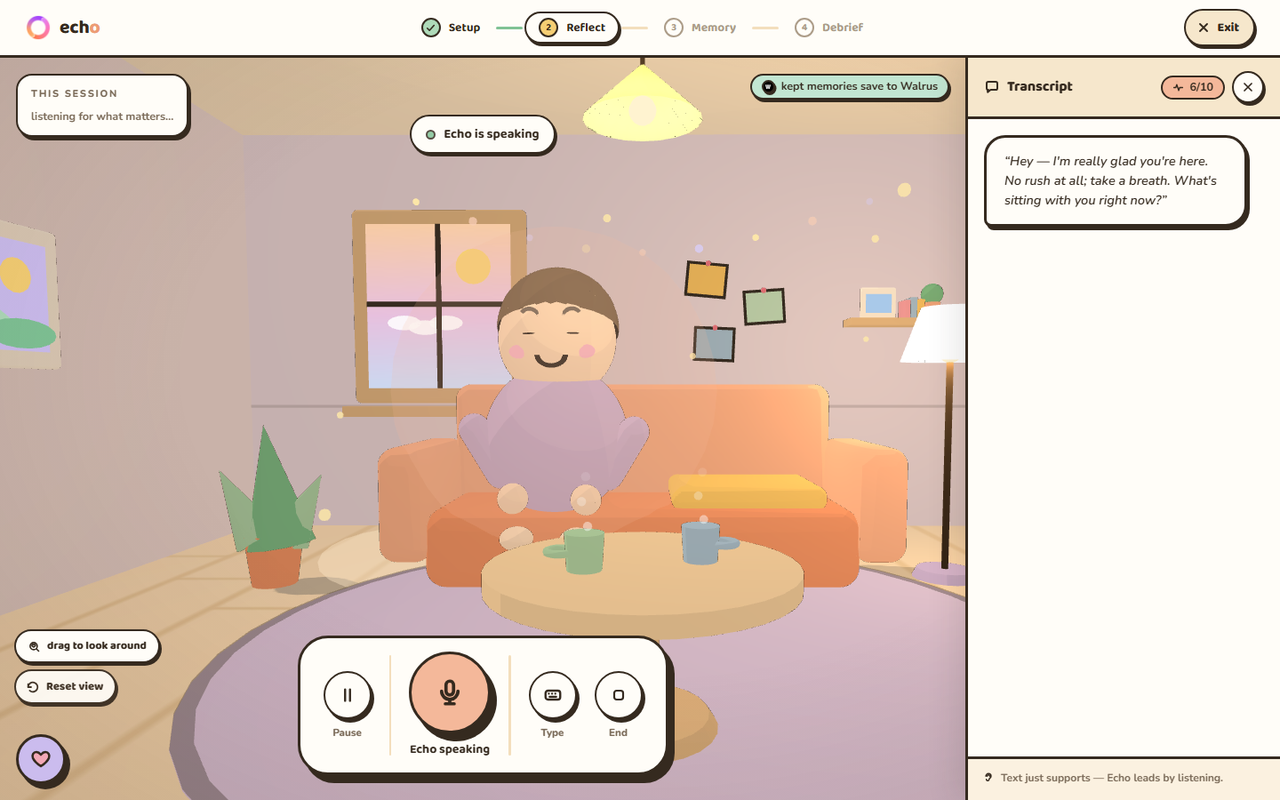
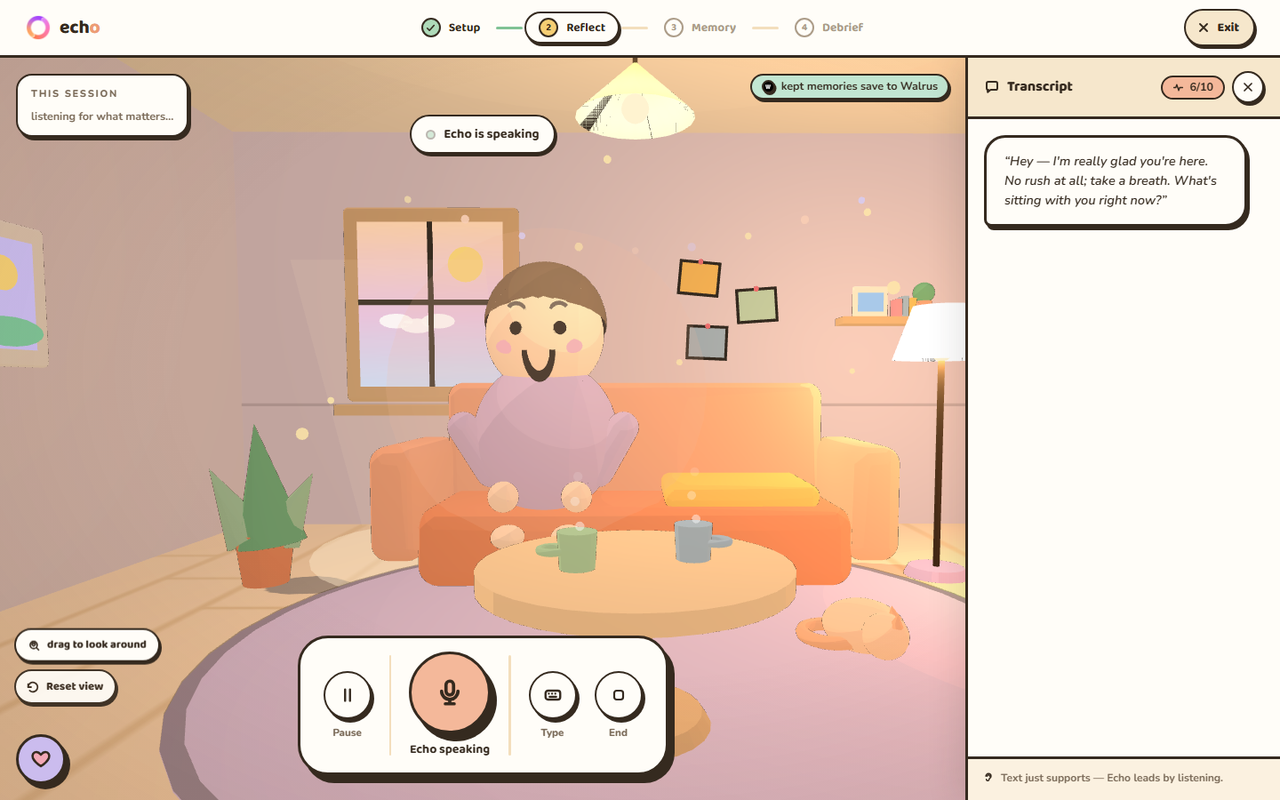
feat: room wow pass — entrance dolly, fireplace, cat, wave, dusk lighting
The reflection room now has a moment when you walk in: a cinematic entrance
(camera drifts down into your seat behind a soft cream fade) while the
companion waves hello. Lighting redesigned from flat to dusk-with-pools:
lower warm ambient, stronger lamp/pendant, a flickering fireplace on the
right wall (animated flames, hearth glow, mantel candle + plant), a window
light shaft, and a deeper background so the warm lights actually pool.
A sleeping doodle cat breathes on the rug. Landing hero gets the breathing
ring logo above the wordmark. Mobile: reset-view hidden (clamped drag
re-centers naturally); all states verified by screenshot.

diff --git a/components/reflection/ImmersiveRoom3D.tsx b/components/reflection/ImmersiveRoom3D.tsx
@@ -31,11 +31,14 @@ export interface Room3DApi { reset: () => void }
 function LookControls({ apiRef }: { apiRef: React.MutableRefObject<Room3DApi | null> }) {
   const { camera, gl } = useThree();
   const v = useRef({ yaw: 0, pitch: 0, tyaw: 0, tpitch: 0, drag: false, lx: 0, ly: 0, basePitch: 0 });
+  // cinematic entrance: drift down + forward into your seat
+  const intro = useRef({ t0: -1, done: false });
 
   useEffect(() => {
     camera.position.set(0, 1.22, 2.9);
     camera.lookAt(0, 1.0, -1.2);
     v.current.basePitch = camera.rotation.x;
+    if (window.matchMedia('(prefers-reduced-motion: reduce)').matches) intro.current.done = true;
     const el = gl.domElement;
     el.style.touchAction = 'none';
     const down = (e: PointerEvent) => {
@@ -78,6 +81,14 @@ function LookControls({ apiRef }: { apiRef: React.MutableRefObject<Room3DApi | n
     s.yaw = damp(s.yaw, s.tyaw, 7.5, dt);
     s.pitch = damp(s.pitch, s.tpitch, 7.5, dt);
     const t = st.clock.elapsedTime;
+    // entrance dolly — ease from above/behind down into the seat
+    if (!intro.current.done) {
+      if (intro.current.t0 < 0) intro.current.t0 = t;
+      const p = Math.min(1, (t - intro.current.t0) / 2.8);
+      const e = 1 - Math.pow(1 - p, 3); // easeOutCubic
+      camera.position.set(0, 1.22 + 0.5 * (1 - e), 2.9 + 1.9 * (1 - e));
+      if (p >= 1) intro.current.done = true;
+    }
     // gentle seated sway so the room feels alive even untouched
     const swayY = Math.sin(t * 0.32) * 0.012;
     const swayP = Math.cos(t * 0.26) * 0.007;
@@ -100,9 +111,18 @@ function Companion3D({ state }: { state: OrbState }) {
   const mouth = useRef<THREE.Mesh>(null);
   const think = useRef<THREE.Group>(null);
   const aura = useRef<THREE.Mesh>(null);
+  const waveArm = useRef<THREE.Group>(null);
+  const waveT0 = useRef(-1);
 
   useFrame((st, dt) => {
     const t = st.clock.elapsedTime;
+    // a little wave when you arrive — then the arm settles back down
+    if (waveArm.current) {
+      if (waveT0.current < 0) waveT0.current = t;
+      const wt = t - waveT0.current;
+      const target = wt > 0.6 && wt < 3.4 ? -1.85 + Math.sin(wt * 7) * 0.35 : 0;
+      waveArm.current.rotation.z = damp(waveArm.current.rotation.z, target, wt < 3.4 ? 7 : 3.5, dt);
+    }
     // breathing — whole figure, from the seat up
     if (breath.current) {
       const s = 1 + Math.sin(t * 1.35) * 0.016;
@@ -169,11 +189,14 @@ function Companion3D({ state }: { state: OrbState }) {
             <meshToonMaterial color="#CBBCEE" />
             <Outlines thickness={0.018} color={INK} />
           </mesh>
-          <mesh position={[0.38, 0.86, 0.1]} rotation={[0.2, 0, -0.5]}>
-            <capsuleGeometry args={[0.09, 0.3, 6, 12]} />
-            <meshToonMaterial color="#CBBCEE" />
-            <Outlines thickness={0.018} color={INK} />
-          </mesh>
+          {/* right arm pivots at the shoulder so it can wave hello */}
+          <group ref={waveArm} position={[0.3, 1.02, 0.06]}>
+            <mesh position={[0.08, -0.16, 0.04]} rotation={[0.2, 0, -0.5]}>
+              <capsuleGeometry args={[0.09, 0.3, 6, 12]} />
+              <meshToonMaterial color="#CBBCEE" />
+              <Outlines thickness={0.018} color={INK} />
+            </mesh>
+          </group>
           {/* hands resting */}
           <mesh position={[-0.2, 0.62, 0.3]}>
             <sphereGeometry args={[0.085, 16, 12]} />
@@ -324,6 +347,129 @@ function YourPresence() {
   );
 }
 
+/* ---------------- fireplace — flicker, warmth, the heart of the room ---------------- */
+function Fireplace() {
+  const flames = useRef<(THREE.Mesh | null)[]>([]);
+  const glow = useRef<THREE.PointLight>(null);
+  useFrame((st) => {
+    const t = st.clock.elapsedTime;
+    flames.current.forEach((f, i) => {
+      if (!f) return;
+      const n = Math.sin(t * (6 + i * 1.7) + i * 2.1) * 0.5 + Math.sin(t * (11 + i) + i) * 0.5;
+      f.scale.y = 0.85 + n * 0.22;
+      f.scale.x = 1 - n * 0.08;
+      f.rotation.y = t * (0.6 + i * 0.2);
+      f.position.x = (i - 1) * 0.1 + Math.sin(t * 3 + i * 2) * 0.012;
+    });
+    if (glow.current) glow.current.intensity = 2.6 + Math.sin(t * 7.3) * 0.5 + Math.sin(t * 13.7) * 0.3;
+  });
+  return (
+    <group position={[3.32, 0, -0.7]} rotation={[0, -Math.PI / 2, 0]}>
+      {/* mantel + body */}
+      <RoundedBox args={[1.7, 1.4, 0.5]} radius={0.06} position={[0, 0.7, 0]} castShadow>
+        <meshToonMaterial color="#E8C9A0" />
+        <Outlines thickness={0.03} color={INK} />
+      </RoundedBox>
+      <RoundedBox args={[1.9, 0.14, 0.62]} radius={0.04} position={[0, 1.45, 0]}>
+        <meshToonMaterial color="#D9B583" />
+        <Outlines thickness={0.022} color={INK} />
+      </RoundedBox>
+      {/* the opening */}
+      <mesh position={[0, 0.55, 0.18]}>
+        <boxGeometry args={[1.0, 0.78, 0.24]} />
+        <meshBasicMaterial color="#3A2B20" />
+      </mesh>
+      {/* logs */}
+      <mesh position={[-0.1, 0.24, 0.26]} rotation={[0, 0.5, 0]}>
+        <cylinderGeometry args={[0.06, 0.06, 0.6, 8]} />
+        <meshToonMaterial color="#8A6748" />
+      </mesh>
+      <mesh position={[0.1, 0.24, 0.28]} rotation={[0, -0.6, 0]}>
+        <cylinderGeometry args={[0.055, 0.055, 0.55, 8]} />
+        <meshToonMaterial color="#7A5A3E" />
+      </mesh>
+      {/* flames */}
+      {[0, 1, 2].map(i => (
+        <mesh key={i} ref={(el) => { flames.current[i] = el; }} position={[(i - 1) * 0.1, 0.45, 0.28]}>
+          <coneGeometry args={[i === 1 ? 0.11 : 0.075, i === 1 ? 0.42 : 0.28, 8]} />
+          <meshBasicMaterial color={i === 1 ? '#FF9D45' : i === 0 ? '#FFD56B' : '#FF7A3C'} transparent opacity={0.92} toneMapped={false} />
+        </mesh>
+      ))}
+      {/* candle pair on the mantel */}
+      <mesh position={[-0.55, 1.62, 0]}>
+        <cylinderGeometry args={[0.035, 0.04, 0.2, 10]} />
+        <meshToonMaterial color="#FBF1E0" />
+        <Outlines thickness={0.008} color={INK} />
+      </mesh>
+      <mesh position={[-0.55, 1.76, 0]}>
+        <sphereGeometry args={[0.022, 8, 6]} />
+        <meshBasicMaterial color="#FFE9A8" toneMapped={false} />
+      </mesh>
+      <mesh position={[0.5, 1.58, 0]}>
+        <sphereGeometry args={[0.085, 14, 10]} />
+        <meshToonMaterial color="#AEDAB9" />
+        <Outlines thickness={0.01} color={INK} />
+      </mesh>
+      {/* warm flicker light */}
+      <pointLight ref={glow} position={[0, 0.7, 0.7]} color="#FF9D5C" intensity={2.6} distance={6} decay={1.6} />
+      {/* hearth glow on the floor */}
+      <mesh rotation={[-Math.PI / 2, 0, 0]} position={[0, 0.012, 0.75]}>
+        <circleGeometry args={[0.7, 22]} />
+        <meshBasicMaterial color="#FFB066" transparent opacity={0.22} depthWrite={false} />
+      </mesh>
+    </group>
+  );
+}
+
+/* ---------------- a sleeping doodle cat, breathing on the rug ---------------- */
+function Cat() {
+  const body = useRef<THREE.Group>(null);
+  const tail = useRef<THREE.Mesh>(null);
+  useFrame((st) => {
+    const t = st.clock.elapsedTime;
+    if (body.current) body.current.scale.y = 1 + Math.sin(t * 1.1) * 0.045;
+    if (tail.current) tail.current.rotation.z = 0.2 + Math.sin(t * 0.7) * 0.12;
+  });
+  return (
+    <group position={[1.05, 0, -0.25]} rotation={[0, -0.7, 0]}>
+      <group ref={body}>
+        {/* curled body */}
+        <mesh position={[0, 0.12, 0]} scale={[1, 0.62, 0.85]} castShadow>
+          <sphereGeometry args={[0.19, 20, 16]} />
+          <meshToonMaterial color="#F6D9C0" />
+          <Outlines thickness={0.016} color={INK} />
+        </mesh>
+        {/* head tucked in */}
+        <mesh position={[0.14, 0.13, 0.1]}>
+          <sphereGeometry args={[0.1, 16, 12]} />
+          <meshToonMaterial color="#F6D9C0" />
+          <Outlines thickness={0.013} color={INK} />
+        </mesh>
+        {/* ears */}
+        <mesh position={[0.16, 0.23, 0.07]} rotation={[0, 0, 0.2]}>
+          <coneGeometry args={[0.032, 0.06, 6]} />
+          <meshToonMaterial color="#EDBE9C" />
+        </mesh>
+        <mesh position={[0.2, 0.22, 0.13]} rotation={[0, 0, -0.15]}>
+          <coneGeometry args={[0.032, 0.06, 6]} />
+          <meshToonMaterial color="#EDBE9C" />
+        </mesh>
+        {/* sleeping eyes — two tiny content arcs */}
+        <mesh position={[0.21, 0.14, 0.14]} rotation={[0.3, 0.6, Math.PI]}>
+          <torusGeometry args={[0.018, 0.005, 6, 10, Math.PI]} />
+          <meshBasicMaterial color={INK} />
+        </mesh>
+        {/* tail wrapped around */}
+        <mesh ref={tail} position={[-0.13, 0.07, 0.06]} rotation={[Math.PI / 2, 0, 0.2]}>
+          <torusGeometry args={[0.13, 0.032, 8, 14, Math.PI * 1.2]} />
+          <meshToonMaterial color="#EDBE9C" />
+          <Outlines thickness={0.01} color={INK} />
+        </mesh>
+      </group>
+    </group>
+  );
+}
+
 /* ---------------- string lights — a soft garland above the couch ---------------- */
 function StringLights() {
   const refs = useRef<(THREE.Mesh | null)[]>([]);
@@ -467,14 +613,15 @@ function RoomScene({ state }: { state: OrbState }) {
 
   return (
     <group>
-      {/* atmosphere */}
-      <ambientLight intensity={0.85} color="#FFF4EC" />
-      <hemisphereLight intensity={0.5} color="#FFF4EC" groundColor="#F3DEBC" />
-      <directionalLight position={[-2.6, 3.1, -0.6]} intensity={1.1} color="#FFE2C0" castShadow
+      {/* slightly deeper dusk so the warm lights actually pool */}
+      {/* atmosphere — dusk base, warm pools of light */}
+      <ambientLight intensity={0.58} color="#FFE9DC" />
+      <hemisphereLight intensity={0.4} color="#F4E6FF" groundColor="#E8CFAE" />
+      <directionalLight position={[-2.6, 3.1, -0.6]} intensity={1.5} color="#FFD9B0" castShadow
         shadow-mapSize={[1024, 1024]} shadow-camera-left={-4} shadow-camera-right={4}
         shadow-camera-top={4} shadow-camera-bottom={-4} shadow-bias={-0.0004} />
-      <pointLight position={[1.95, 1.5, -1.55]} intensity={2.2} distance={5} color="#FFD9A0" />
-      <pointLight position={[0, 2.25, -0.2]} intensity={1.1} distance={5} color="#FFE9B8" />
+      <pointLight position={[1.95, 1.5, -1.55]} intensity={3.2} distance={5.5} color="#FFD9A0" />
+      <pointLight position={[0, 2.25, -0.2]} intensity={1.9} distance={5.5} color="#FFE9B8" />
 
       {/* floor · rug · walls · ceiling */}
       <mesh rotation={[-Math.PI / 2, 0, 0]} receiveShadow>
@@ -484,7 +631,12 @@ function RoomScene({ state }: { state: OrbState }) {
       {/* warm sun patch spilling in from the window */}
       <mesh rotation={[-Math.PI / 2, 0, 0.4]} position={[-1.7, 0.008, -2.15]} scale={[1, 1.7, 1]}>
         <circleGeometry args={[0.62, 24]} />
-        <meshBasicMaterial color="#FFE9C9" transparent opacity={0.4} depthWrite={false} />
+        <meshBasicMaterial color="#FFE9C9" transparent opacity={0.45} depthWrite={false} />
+      </mesh>
+      {/* soft light shaft from the window down to the sun patch */}
+      <mesh position={[-1.73, 1.05, -2.62]} rotation={[0.5, 0, 0]}>
+        <planeGeometry args={[1.35, 2.4]} />
+        <meshBasicMaterial color="#FFE3B8" transparent opacity={0.1} depthWrite={false} side={THREE.DoubleSide} />
       </mesh>
       <mesh rotation={[-Math.PI / 2, 0, 0]} position={[0, 0.012, -0.5]}>
         <circleGeometry args={[1.95, 40]} />
@@ -640,6 +792,12 @@ function RoomScene({ state }: { state: OrbState }) {
       {/* garland of soft lights above the couch */}
       <StringLights />
 
+      {/* the hearth — flicker + warmth from the right */}
+      <Fireplace />
+
+      {/* a sleeping companion-of-the-companion */}
+      <Cat />
+
       {/* small cozy table in front of you, with two mugs */}
       <group position={[0, 0, 0.45]}>
         <mesh position={[0, 0.56, 0]} castShadow>
@@ -771,11 +929,13 @@ export default function ImmersiveRoom3D({ state, apiRef, onFail }: {
         }}
       >
         {/* scene-level atmosphere — must attach to the scene root, not a group */}
-        <color attach="background" args={['#F3EBF6']} />
-        <fog attach="fog" args={['#F3EBF6', 8, 16]} />
+        <color attach="background" args={['#ECE0F0']} />
+        <fog attach="fog" args={['#ECE0F0', 8, 16]} />
         <LookControls apiRef={apiRef} />
         <RoomScene state={state} />
       </Canvas>
+      {/* soft fade-in as the camera settles into your seat */}
+      <div className="scene-enter" />
     </div>
   );
 }

diff --git a/app/globals.css b/app/globals.css
@@ -676,11 +676,18 @@ input,textarea{font-family:var(--body);}
 .scene-reset:hover{transform:translateY(-2px);box-shadow:3px 5px 0 var(--ink);background:var(--sun);opacity:1;}
 .scene-reset:active{transform:translateY(1px);box-shadow:1px 2px 0 var(--ink);}
 
+/* entrance fade — the room reveals itself as the camera settles */
+.scene-enter{position:absolute;inset:0;z-index:5;background:var(--cream);pointer-events:none;
+  animation:sceneEnter 1.5s ease .1s both;}
+@keyframes sceneEnter{from{opacity:1;}to{opacity:0;}}
+@media (prefers-reduced-motion:reduce){.scene-enter{animation:none;opacity:0;}}
+.calm .scene-enter{animation:none;opacity:0;}
+
 /* unobtrusive positioning note */
 .scene-note{position:absolute;right:14px;bottom:9px;z-index:6;pointer-events:none;max-width:230px;text-align:right;
   font-weight:700;font-size:10.5px;line-height:1.35;color:var(--ink-faint);}
-@media (max-width:680px){.scene-note{display:none;}.scene-reset span{display:none;}.scene-hint{display:none;}
-  .scene-reset{bottom:auto;top:74px;left:auto;right:14px;}}
+@media (max-width:680px){.scene-note{display:none;}.scene-hint{display:none;}
+  .scene-reset{display:none;}}
 
 @media (prefers-reduced-motion:reduce){
   .scene-tilt{transform:none;}

diff --git a/components/screens/Welcome.tsx b/components/screens/Welcome.tsx
@@ -1,7 +1,7 @@
 'use client';
 
 import { useEffect } from 'react';
-import { Doodles, Btn, Ic, LogoMark, PoweredBy } from '../ui';
+import { Doodles, Btn, Ic, LogoMark, PoweredBy, EchoLogo } from '../ui';
 import { useEcho } from '@/lib/store';
 
 export default function Welcome() {
@@ -26,6 +26,7 @@ export default function Welcome() {
         <span className="hero-badge up d1"><Ic name="spark" size={15} stroke="var(--peach-deep)" fill="var(--peach-deep)" /> your AI reflection companion</span>
 
         <div className="up d2" style={{ display: 'flex', flexDirection: 'column', alignItems: 'center', gap: 20 }}>
+          <EchoLogo size={84} style={{ filter: 'drop-shadow(0 10px 22px rgba(237,156,116,.35))', animation: 'breathe 4.5s ease-in-out infinite' }} />
           <span className="wm">
             <h1 className="display" style={{ fontSize: 'clamp(74px,13vw,154px)', letterSpacing: '-.04em', margin: 0 }}>
               ech<span style={{ color: 'var(--peach-deep)' }}>o</span>